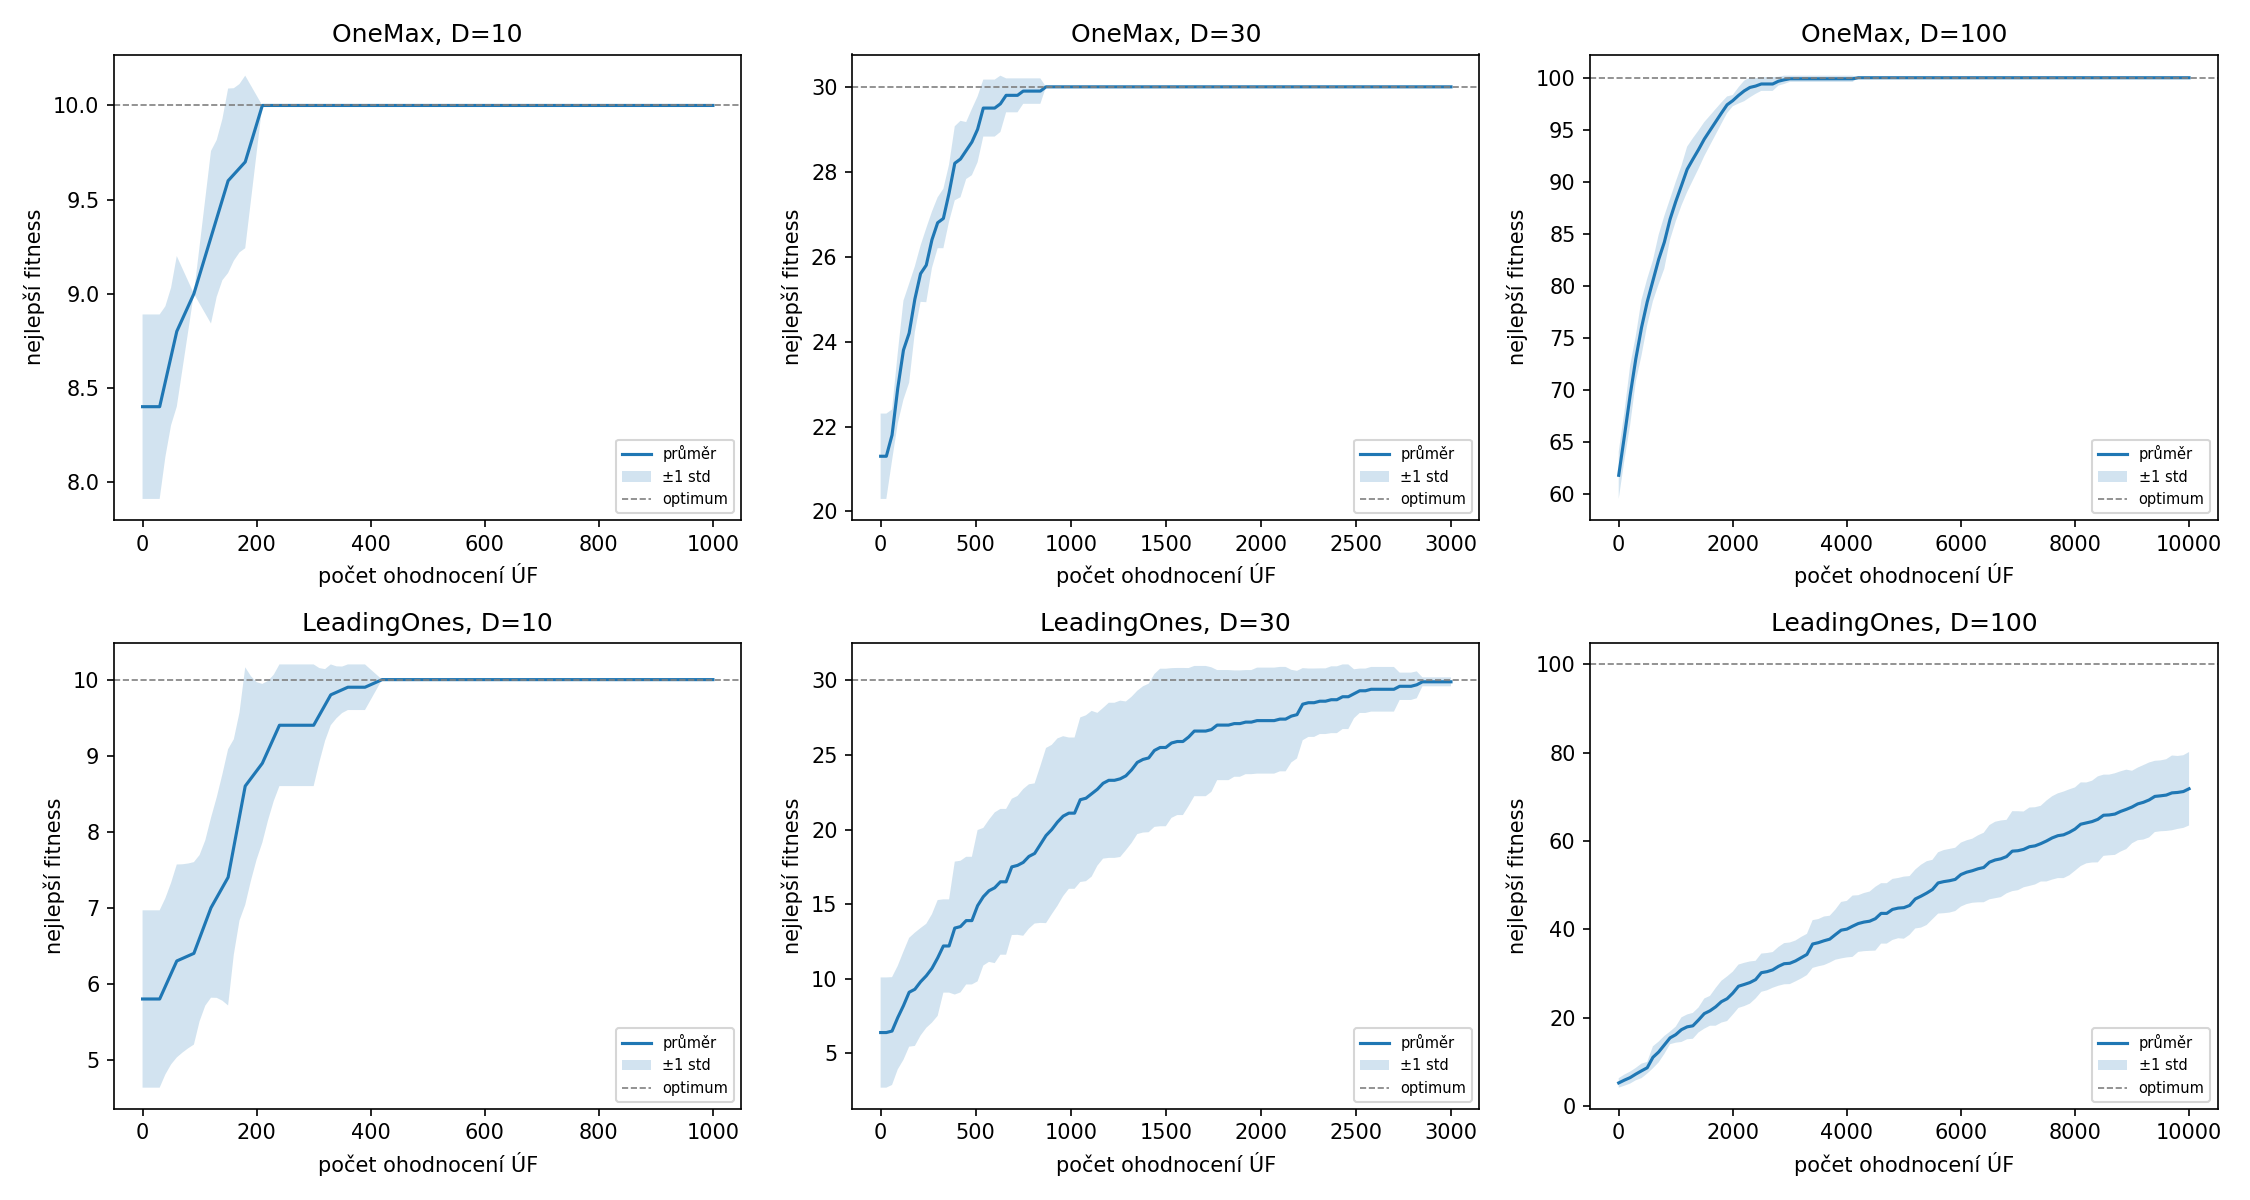
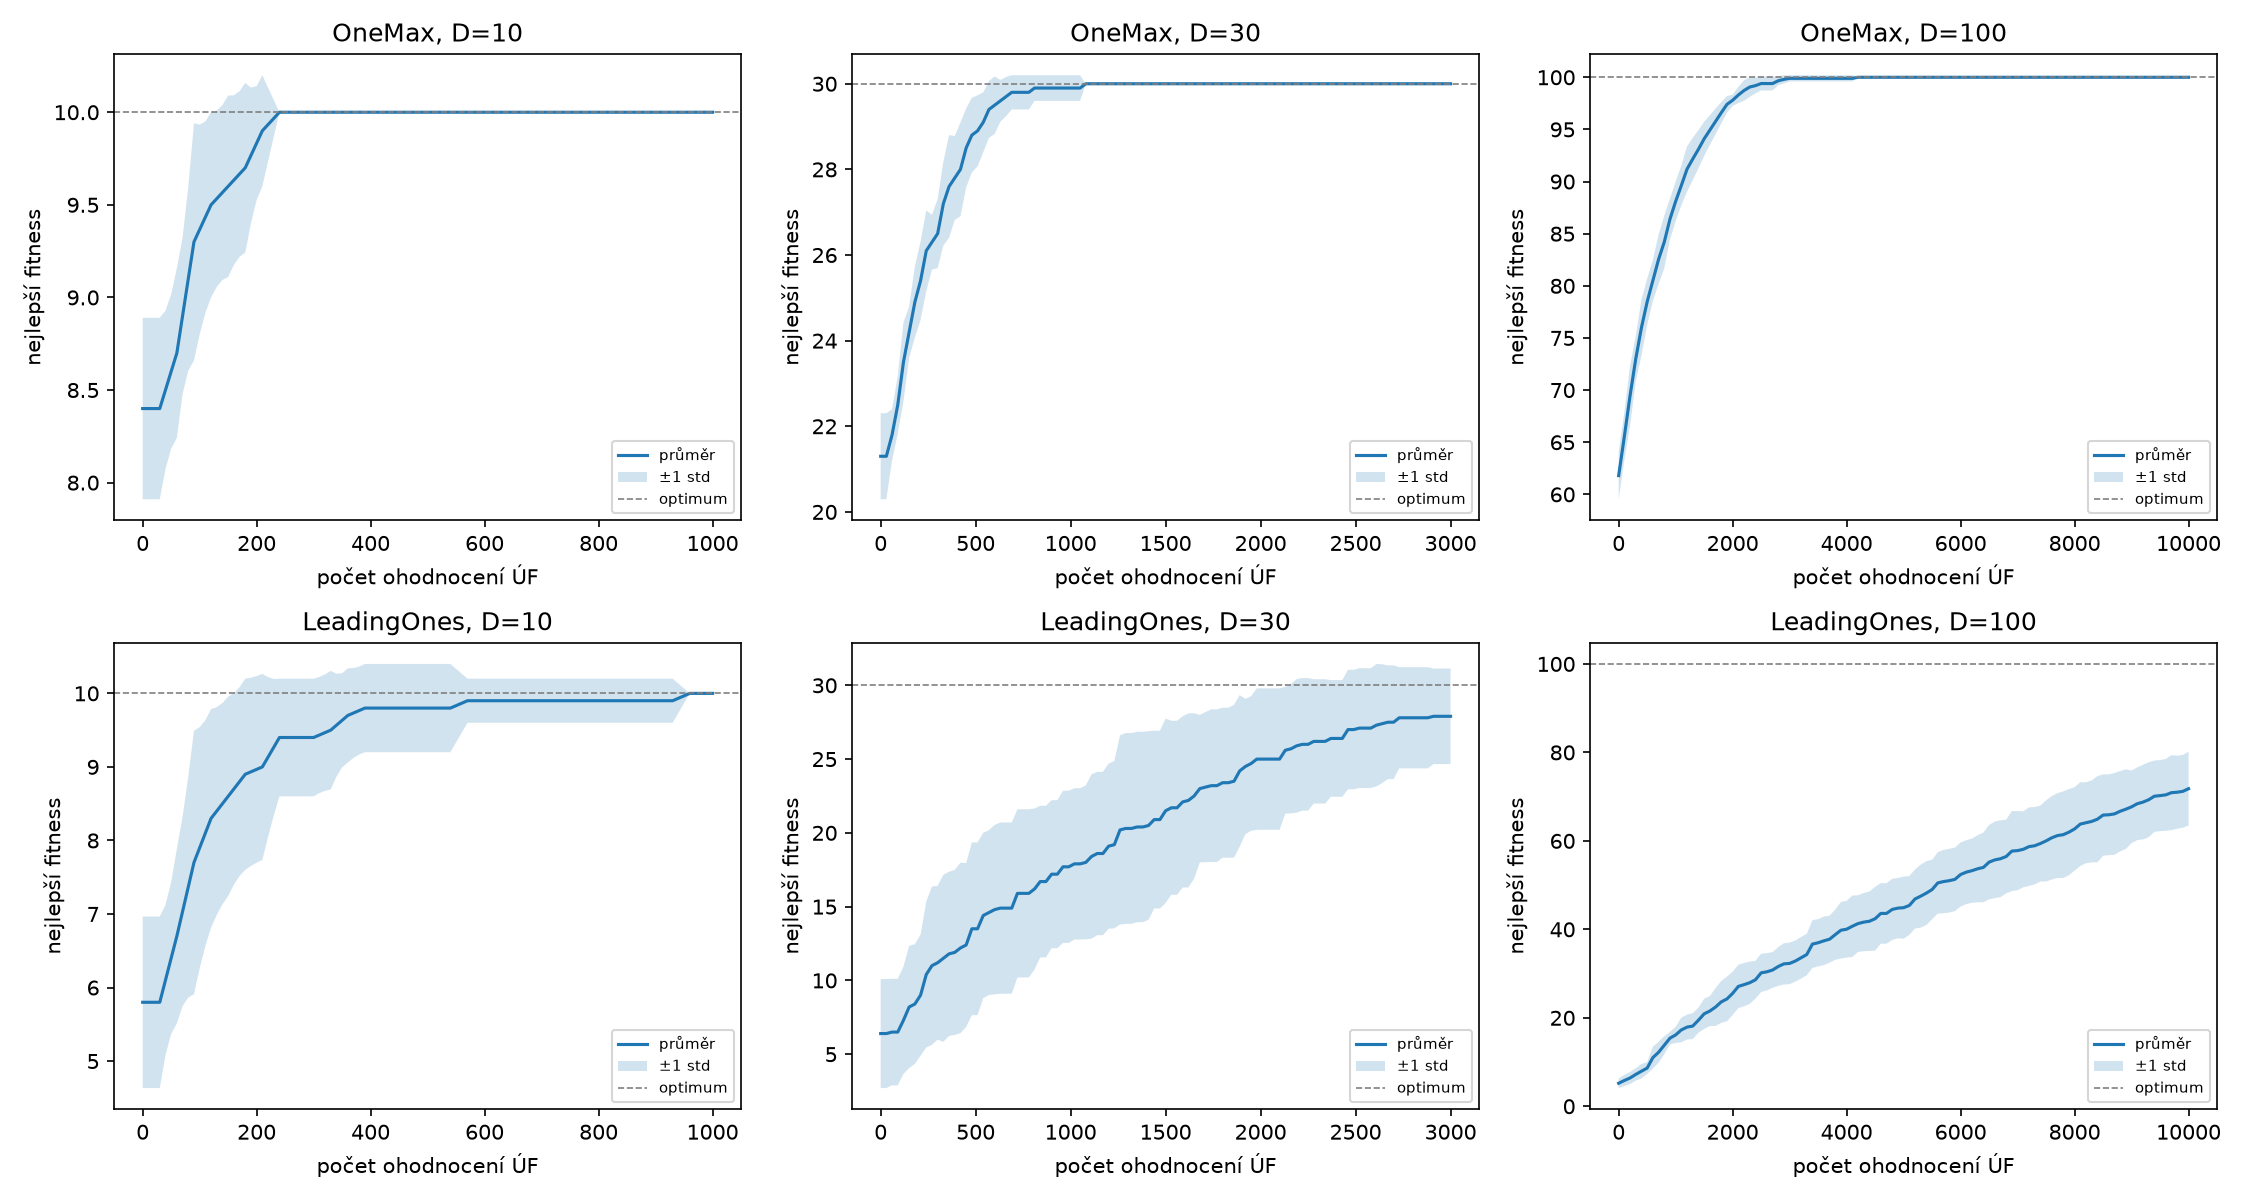
Enhance genetic algorithm implementation with two-point crossover and parameter comparison functionality

diff --git a/Ukol1/ga.py b/Ukol1/ga.py
@@ -24,17 +24,23 @@ import numpy as np
 
 FitnessFunc = Callable[[np.ndarray], int]
 SelectorFunc = Callable[[np.ndarray, np.ndarray, np.random.Generator], np.ndarray]
+CrossoverFunc = Callable[
+    [np.ndarray, np.ndarray, np.random.Generator], tuple[np.ndarray, np.ndarray]
+]
 
 # Výchozí parametry GA (viz README pro zdůvodnění).
 DEFAULT_POP_SIZE = 30
 DEFAULT_ELITE_FRACTION = 0.15
 DEFAULT_SELECTION = "rank"
+DEFAULT_CROSSOVER = "one_point"
+DEFAULT_MUTATION_PROBABILITY = 0.01
 DIMENSIONS = (10, 30, 100)
 PROBLEM_NAMES = ("OneMax", "LeadingOnes")
 RUNS_PER_EXPERIMENT = 10
 EVAL_BUDGET_MULTIPLIER = 100
 CONVERGENCE_PLOT_PATH = "convergence.png"
 STATISTICS_CSV_PATH = "statistics.csv"
+PARAMETER_COMPARISON_CSV_PATH = "parameter_comparison.csv"
 
 
 # ---------------------------------------------------------------------------
@@ -177,6 +183,27 @@ def one_point_crossover(
     return child1, child2
 
 
+def two_point_crossover(
+    parent1: np.ndarray, parent2: np.ndarray, rng: np.random.Generator
+) -> tuple[np.ndarray, np.ndarray]:
+    """Provede dvoubodové křížení dvou rodičů."""
+    points = np.sort(rng.choice(np.arange(1, len(parent1)), size=2, replace=False))
+    first_point, second_point = points
+    child1 = np.concatenate(
+        [parent1[:first_point], parent2[first_point:second_point], parent1[second_point:]]
+    )
+    child2 = np.concatenate(
+        [parent2[:first_point], parent1[first_point:second_point], parent2[second_point:]]
+    )
+    return child1, child2
+
+
+CROSSOVERS: dict[str, CrossoverFunc] = {
+    "one_point": one_point_crossover,
+    "two_point": two_point_crossover,
+}
+
+
 def mutate(
     individual: np.ndarray, mutation_probability: float, rng: np.random.Generator
 ) -> np.ndarray:
@@ -207,6 +234,7 @@ def _build_next_generation(
     pop_size: int,
     n_elite: int,
     selector: SelectorFunc,
+    crossover: CrossoverFunc,
     mutation_probability: float,
     rng: np.random.Generator,
 ) -> np.ndarray:
@@ -231,7 +259,7 @@ def _build_next_generation(
     while len(new_population) < pop_size:
         parent1 = selector(population, fitness, rng)
         parent2 = selector(population, fitness, rng)
-        child1, child2 = one_point_crossover(parent1, parent2, rng)
+        child1, child2 = crossover(parent1, parent2, rng)
         child1 = mutate(child1, mutation_probability, rng)
         child2 = mutate(child2, mutation_probability, rng)
         new_population.append(child1)
@@ -247,8 +275,9 @@ def run_ga(
     max_evals: int,
     pop_size: int = DEFAULT_POP_SIZE,
     elite_fraction: float = DEFAULT_ELITE_FRACTION,
-    mutation_probability: float | None = None,
+    mutation_probability: float = DEFAULT_MUTATION_PROBABILITY,
     selection: str = DEFAULT_SELECTION,
+    crossover_type: str = DEFAULT_CROSSOVER,
     seed: int | None = None,
 ) -> tuple[np.ndarray, np.ndarray]:
     """Provede jeden běh genetického algoritmu.
@@ -259,8 +288,9 @@ def run_ga(
         max_evals: Maximální počet ohodnocení účelové funkce.
         pop_size: Velikost populace.
         elite_fraction: Podíl nejlepších jedinců přenesených beze změny.
-        mutation_probability: Pravděpodobnost inverze bitu; `None` použije 1/D.
+        mutation_probability: Pravděpodobnost inverze jednoho bitu.
         selection: Typ selekce, `"rank"` nebo `"roulette"`.
+        crossover_type: Typ křížení, `"one_point"` nebo `"two_point"`.
         seed: Seed generátoru náhodných čísel pro reprodukovatelnost.
 
     Returns:
@@ -268,11 +298,12 @@ def run_ga(
         nalezeného fitness v závislosti na počtu ohodnocení.
     """
     rng = np.random.default_rng(seed)
-    if mutation_probability is None:
-        mutation_probability = 1.0 / dim  # doporučené rozmezí ~0.5-1 % pro D~100-200
-
     selector = SELECTORS[selection]
+    crossover = CROSSOVERS[crossover_type]
     n_elite = max(1, round(elite_fraction * pop_size))
+
+    if max_evals < pop_size:
+        raise ValueError("max_evals musí být alespoň velikost počáteční populace")
 
     population = init_population(pop_size, dim, rng)
     fitness = evaluate(population, fitness_func)
@@ -283,11 +314,19 @@ def run_ga(
     best_history = [best_so_far]
 
     while evals < max_evals:
+        generation_size = min(pop_size, max_evals - evals)
         population = _build_next_generation(
-            population, fitness, pop_size, n_elite, selector, mutation_probability, rng
+            population,
+            fitness,
+            generation_size,
+            min(n_elite, generation_size),
+            selector,
+            crossover,
+            mutation_probability,
+            rng,
         )
         fitness = evaluate(population, fitness_func)
-        evals += pop_size
+        evals += len(population)
         best_so_far = max(best_so_far, fitness.max())
 
         evals_history.append(evals)
@@ -349,6 +388,88 @@ def run_experiment(
     return common_evals, all_curves_array, stats
 
 
+def compare_parameters() -> list[dict[str, object]]:
+    """Porovná šest nastavení na náročném LeadingOnes problému D=100."""
+    configurations: tuple[tuple[str, dict[str, object]], ...] = (
+        (
+            "baseline",
+            {
+                "pop_size": 30,
+                "elite_fraction": 0.15,
+                "selection": "rank",
+                "crossover_type": "one_point",
+                "mutation_probability": 0.01,
+            },
+        ),
+        (
+            "population_60",
+            {
+                "pop_size": 60,
+                "elite_fraction": 0.15,
+                "selection": "rank",
+                "crossover_type": "one_point",
+                "mutation_probability": 0.01,
+            },
+        ),
+        (
+            "elite_10pct",
+            {
+                "pop_size": 30,
+                "elite_fraction": 0.10,
+                "selection": "rank",
+                "crossover_type": "one_point",
+                "mutation_probability": 0.01,
+            },
+        ),
+        (
+            "roulette",
+            {
+                "pop_size": 30,
+                "elite_fraction": 0.15,
+                "selection": "roulette",
+                "crossover_type": "one_point",
+                "mutation_probability": 0.01,
+            },
+        ),
+        (
+            "mutation_0.5pct",
+            {
+                "pop_size": 30,
+                "elite_fraction": 0.15,
+                "selection": "rank",
+                "crossover_type": "one_point",
+                "mutation_probability": 0.005,
+            },
+        ),
+        (
+            "two_point",
+            {
+                "pop_size": 30,
+                "elite_fraction": 0.15,
+                "selection": "rank",
+                "crossover_type": "two_point",
+                "mutation_probability": 0.01,
+            },
+        ),
+    )
+
+    comparison_rows = []
+    for name, settings in configurations:
+        _, _, stats = run_experiment(
+            "LeadingOnes", 100, n_runs=RUNS_PER_EXPERIMENT, **settings
+        )
+        comparison_rows.append(
+            {
+                "configuration": name,
+                "problem": "LeadingOnes",
+                "dim": 100,
+                **settings,
+                **stats,
+            }
+        )
+    return comparison_rows
+
+
 def _plot_convergence(
     ax: plt.Axes, evals: np.ndarray, curves: np.ndarray, problem: str, dim: int
 ) -> None:
@@ -381,7 +502,8 @@ def main() -> None:
         "pop_size": DEFAULT_POP_SIZE,
         "elite_fraction": DEFAULT_ELITE_FRACTION,
         "selection": DEFAULT_SELECTION,
-        "mutation_probability": None,
+        "crossover_type": DEFAULT_CROSSOVER,
+        "mutation_probability": DEFAULT_MUTATION_PROBABILITY,
     }
 
     all_stats = []
@@ -409,6 +531,32 @@ def main() -> None:
         writer.writerows(all_stats)
     print(f"Statistiky uloženy do {STATISTICS_CSV_PATH}")
     print("\n".join(", ".join(f"{key}={row[key]}" for key in fieldnames) for row in all_stats))
+
+    comparison_rows = compare_parameters()
+    comparison_fields = [
+        "configuration",
+        "problem",
+        "dim",
+        "pop_size",
+        "elite_fraction",
+        "selection",
+        "crossover_type",
+        "mutation_probability",
+        "best",
+        "worst",
+        "mean",
+        "median",
+        "std",
+    ]
+    with open(
+        PARAMETER_COMPARISON_CSV_PATH, "w", newline="", encoding="utf-8"
+    ) as csv_file:
+        writer = csv.DictWriter(csv_file, fieldnames=comparison_fields)
+        writer.writeheader()
+        writer.writerows(comparison_rows)
+    print(f"\nPorovnání parametrů uloženo do {PARAMETER_COMPARISON_CSV_PATH}")
+    for row in comparison_rows:
+        print(f"{row['configuration']}: mean={row['mean']:.2f}, std={row['std']:.2f}")
 
 
 if __name__ == "__main__":

diff --git a/Ukol1/README.md b/Ukol1/README.md
@@ -13,16 +13,16 @@ vždy 10 nezávislých běhů s rozpočtem 100×D ohodnocení účelové funkce.
   změny do nové populace.
 - **Selekce rodičů**: `rank` (pořadová) nebo `roulette` (ruletová) — volitelné
   parametrem `selection`.
-- **Křížení**: jednobodové (`one_point_crossover`) — náhodný bod dělení,
-  výměna prvních částí obou rodičů → 2 potomci.
+- **Křížení**: v hlavních experimentech jednobodové (`one_point_crossover`) —
+  náhodný bod dělení a výměna částí rodičů. Pro srovnání parametrů je dostupné
+  také dvoubodové křížení.
 - **Mutace**: bitová inverze každého bitu s pravděpodobností `p_mut`
-  (výchozí `1/D`, což odpovídá doporučenému rozmezí ~0.5–1 % pro D okolo
-  100–200).
+  (výchozí 1 % pro všechny dimenze; ve srovnání se testuje také 0,5 %).
 - **Cyklus**: elitní jedinci + opakovaná selekce → křížení → mutace, dokud
   nová populace nedosáhne velikosti `pop_size` (výchozí 30).
-- **Rozpočet**: běh se zastaví po dosažení `100 × D` ohodnocení účelové
-  funkce; sleduje se průběžně nejlepší nalezené řešení (konvergenční
-  křivka).
+- **Rozpočet**: běh provede přesně `100 × D` ohodnocení účelové funkce.
+  Pokud zbývá méně než celá generace, vyhodnotí se jen potřebný počet jedinců.
+  Sleduje se průběžně nejlepší nalezené řešení.
 
 Konvergenční křivky z jednotlivých běhů jsou interpolovány na společnou osu
 počtu ohodnocení a zprůměrovány přes 10 běhů (`run_experiment`).
@@ -38,8 +38,10 @@ Vygeneruje:
   pro obě úlohy a všechny tři dimenze,
 - `statistics.csv` — základní statistiky finálního fitness přes 10 běhů
   (nejlepší, nejhorší, průměr, medián, směrodatná odchylka).
+- `parameter_comparison.csv` — srovnání šesti nastavení na náročném případu
+  LeadingOnes D=100, každé přes 10 běhů.
 
-## Výsledky (výchozí nastavení: pop=30, elitismus 15 %, pořadová selekce, p_mut=1/D)
+## Výsledky (pop=30, elitismus 15 %, pořadová selekce, jednobodové křížení, p_mut=1 %)
 
 | problem      | D   | best | worst | mean  | median | std   |
 |--------------|-----|------|-------|-------|--------|-------|
@@ -47,10 +49,31 @@ Vygeneruje:
 | OneMax       | 30  | 30   | 30    | 30.0  | 30.0   | 0.000 |
 | OneMax       | 100 | 100  | 100   | 100.0 | 100.0  | 0.000 |
 | LeadingOnes  | 10  | 10   | 10    | 10.0  | 10.0   | 0.000 |
-| LeadingOnes  | 30  | 30   | 29    | 29.9  | 30.0   | 0.300 |
-| LeadingOnes  | 100 | 80   | 55    | 71.9  | 76.0   | 8.264 |
+| LeadingOnes  | 30  | 30   | 22    | 27.9  | 30.0   | 3.239 |
+| LeadingOnes  | 100 | 80   | 55    | 71.8  | 76.0   | 8.352 |
 
-## Diskuse nastavení parametrů
+## Porovnání parametrů
+
+Parametry byly porovnány na LeadingOnes D=100 s rozpočtem 10 000 evaluací a
+10 běhy pro každou konfiguraci. Vždy se měnila jedna vlastnost vůči základnímu
+nastavení; křížení bylo testováno jednobodové i dvoubodové.
+
+| konfigurace | populace | elitismus | selekce | křížení | mutace | průměr | std |
+|-------------|---------:|----------:|---------|---------|-------:|-------:|----:|
+| základní | 30 | 15 % | rank | jednobodové | 1 % | 71,8 | 8,35 |
+| větší populace | 60 | 15 % | rank | jednobodové | 1 % | 56,4 | 6,68 |
+| nižší elitismus | 30 | 10 % | rank | jednobodové | 1 % | 69,7 | 5,81 |
+| ruletová selekce | 30 | 15 % | roulette | jednobodové | 1 % | 67,3 | 7,46 |
+| nižší mutace | 30 | 15 % | rank | jednobodové | 0,5 % | 58,7 | 9,96 |
+| dvoubodové křížení | 30 | 15 % | rank | dvoubodové | 1 % | 79,6 | 8,06 |
+
+V tomto omezeném srovnání vyšlo nejlépe dvoubodové křížení; hlavní požadované
+experimenty ale zůstávají s jednobodovým křížením podle zadání. Populace 30,
+elitismus 15 %, pořadová selekce a mutace 1 % jsou rozumný výchozí kompromis
+pro základní běhy. Výsledky jsou z pouhých 10 běhů na jedné dimenzi, proto je
+ber jako orientační, ne jako univerzální optimum.
+
+## Diskuse výsledků
 
 - **OneMax** je pro GA snadná úloha (fitness je aditivní, separabilní) —
   s daným nastavením se optimum spolehlivě najde ve všech dimenzích, a to i
@@ -61,14 +84,9 @@ Vygeneruje:
   ohodnocení GA nestíhá dojít k optimu — to odpovídá teoretické složitosti
   LeadingOnes (řádově O(D²) ohodnocení pro (1+1)-EA), zatímco máme k
   dispozici jen O(100·D).
-- Elitismus 15 % a pořadová selekce (rank) dávaly stabilnější a mírně
-  rychlejší konvergenci než ruletová selekce, protože rank selekce méně
-  trpí "dominancí" jedinců s výrazně vyšším fitness v raných fázích (u
-  LeadingOnes se fitness soustředí na nízkých hodnotách, ruleta pak vybírá
-  téměř náhodně).
-- Pravděpodobnost mutace `1/D` se v testech ukázala jako rozumný kompromis
-  — nižší hodnoty (blíže 0.5 %) zpomalují explorate u LeadingOnes, vyšší
-  (blíže 1 %) zvyšují riziko destrukce dobrých řešení u velkého D.
-- Pro experimentování lze v `main()` v `ga.py` snadno měnit `pop_size`,
-  `elite_frac`, `selection` a `p_mut` a porovnávat výsledné konvergenční
-  křivky a statistiky.
+- V konkrétním srovnání na LeadingOnes D=100 dosáhla pořadová selekce vyššího
+  průměru než ruletová. Vyšší velikost populace ani mutace 0,5 % v tomto
+  rozpočtu nepomohly.
+- Mutace 1 % odpovídá přímo doporučenému rozmezí v zadání a používá se stejně
+  pro všechna D; nejde o dřívější nastavení `1/D`, které pro nižší dimenze
+  znamenalo podstatně vyšší pravděpodobnost mutace.
